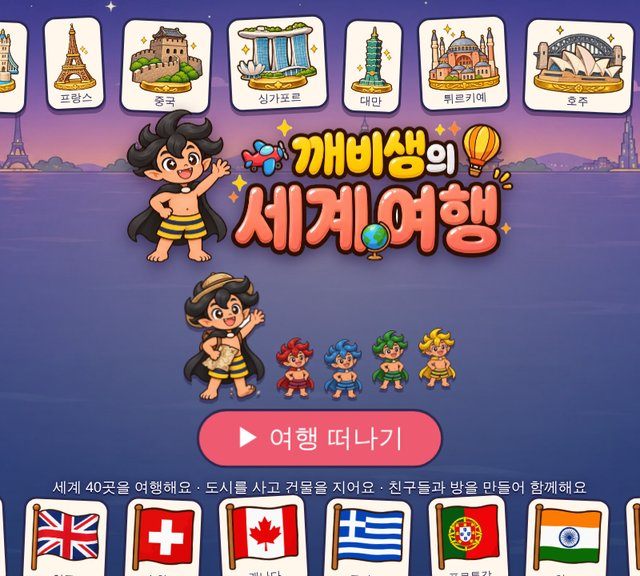
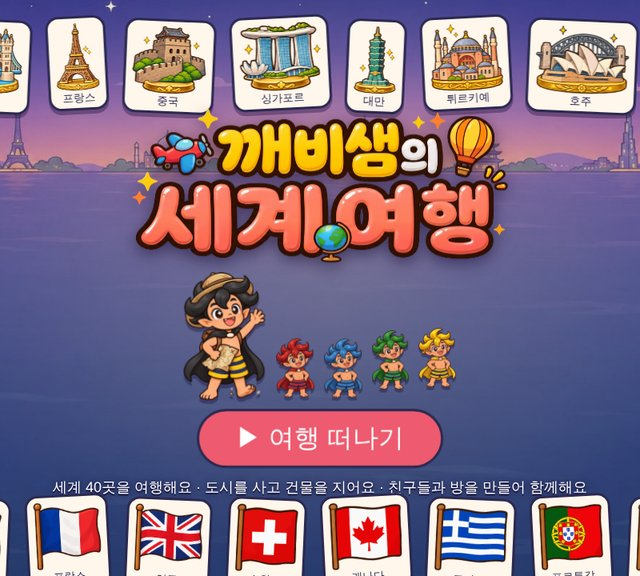
세계 여행: 시작 그림·로고 교체 (직접 누끼) (#97)
* 홈 화면: 깨비샘 캐릭터와 새 사이트 이름(깨비샘과 쉬는 시간)

Claude-Session: https://claude.ai/code/session_01TJDp5XNDx63cZsB8aKiCUZ

* 홈 화면: 새 로고로 교체

Claude-Session: https://claude.ai/code/session_01TJDp5XNDx63cZsB8aKiCUZ

* 맞춤법 게임: 깨비샘 캐릭터와 새 로고 (깨비샘의 한글 맞춤법 대소동)

Claude-Session: https://claude.ai/code/session_01TJDp5XNDx63cZsB8aKiCUZ

* 영어 타자 연습: 깨비샘 캐릭터와 새 로고 (깨비샘의 영어 타자 연습)

Claude-Session: https://claude.ai/code/session_01TJDp5XNDx63cZsB8aKiCUZ

* 국기 맞히기: 깨비샘 캐릭터와 새 로고 (깨비샘의 국기 맞히기)

Claude-Session: https://claude.ai/code/session_01TJDp5XNDx63cZsB8aKiCUZ

* 블록 쌓기: 깨비샘 캐릭터와 새 로고 (깨비샘의 블록 쌓기)

Claude-Session: https://claude.ai/code/session_01TJDp5XNDx63cZsB8aKiCUZ

* 오목 대결: 깨비샘 캐릭터, 스티커, 새 로고 (깨비샘의 오목 대결)

Claude-Session: https://claude.ai/code/session_01TJDp5XNDx63cZsB8aKiCUZ

* 홈 화면: 로고 크게, 휴대폰 카드 썸네일을 원래 비율(10:9)로

Claude-Session: https://claude.ai/code/session_01TJDp5XNDx63cZsB8aKiCUZ

* 홈 화면: 인스타그램 계정 ggaebilog로 변경

Claude-Session: https://claude.ai/code/session_01TJDp5XNDx63cZsB8aKiCUZ

* 블록 쌓기: 제목 위 빼꼼 깨비샘 빼기

Claude-Session: https://claude.ai/code/session_01TJDp5XNDx63cZsB8aKiCUZ

* 알까기: 깨비샘 캐릭터와 새 로고 (깨비샘의 알까기)

Claude-Session: https://claude.ai/code/session_01TJDp5XNDx63cZsB8aKiCUZ

* 블록 쌓기: 블록이 들어간 새 로고

Claude-Session: https://claude.ai/code/session_01TJDp5XNDx63cZsB8aKiCUZ

* 맞춤법 게임: 새 로고로 교체

Claude-Session: https://claude.ai/code/session_01TJDp5XNDx63cZsB8aKiCUZ

* Use new 깨비샘 face (yellow circle) for site icons and face-64
[…]

diff --git a/worldtour/index.html b/worldtour/index.html
@@ -357,7 +357,7 @@
   <div class="tl-main">
     <img class="tl-balloon b1" src="img/corner-balloon.png" alt="" onerror="this.remove()">
     <img class="tl-balloon b2" src="img/corner-balloon.png" alt="" onerror="this.remove()">
-    <img id="tlLogo" src="img/logo.png?v=2" alt="깨비샘의 세계 여행" onerror="this.outerHTML='<div class=&quot;tl-logo-txt&quot;><small>깨비샘의</small>세계 여행</div>'">
+    <img id="tlLogo" src="img/logo.png?v=5" alt="깨비샘의 세계 여행" onerror="this.outerHTML='<div class=&quot;tl-logo-txt&quot;><small>깨비샘의</small>세계 여행</div>'">
     <div class="tl-cast"><img class="gg" src="img/ggobi-travel.png" alt="" onerror="this.src='../img/ggobi-wave.png'"><img class="pc" src="img/piece-red.png" alt="" onerror="this.remove()"><img class="pc" src="img/piece-blue.png" alt="" onerror="this.remove()"><img class="pc" src="img/piece-green.png" alt="" onerror="this.remove()"><img class="pc" src="img/piece-yellow.png" alt="" onerror="this.remove()"></div>
     <button class="game-btn btn-primary" id="tlGo" type="button">▶ 여행 떠나기</button>
     <p class="tl-tip"><span>세계 40곳을 여행해요 ·</span> <span>도시를 사고 건물을 지어요 ·</span> <span>친구들과 방을 만들어 함께해요</span></p>
@@ -562,7 +562,7 @@ const IMG = {};
 const IMG_NAMES = ['logo', 'ggobi-travel', 'ggobi-happy', 'ggobi-sad', 'ggobi-win', 'card-back', 'bld-tent', 'bld-house', 'bld-hotel', 'bld-landmark',
   'piece-red', 'piece-blue', 'piece-green', 'piece-yellow', 'corner-start', 'corner-island', 'corner-fund', 'corner-balloon', 'tile-card', 'tile-give']
   .concat(TILES.filter(t => t.type === 'mark').map(t => 'city-' + t.key)).concat(TILES.filter(t => t.type === 'city').map(t => 'flag-' + t.key)).concat(TILES.filter(t => t.type === 'city').map(t => 'lm-' + t.key)).concat(CARDS.map((c, k) => 'card-' + String(k + 1).padStart(2, '0')));
-const IMG_V = 4;
+const IMG_V = 5;
 IMG_NAMES.forEach(n => { const im = new Image(); im.onload = () => { IMG[n] = 'img/' + n + '.png?v=' + IMG_V; imgReady(); }; im.src = 'img/' + n + '.png?v=' + IMG_V; });
 [['bg.jpg', () => document.body.classList.add('hasbg')], ['board-center.jpg', () => $('center').classList.add('art')]].forEach(([f, cb]) => { const im = new Image(); im.onload = cb; im.src = 'img/' + f; });
 let imgTimer = 0;

diff --git a/index.html b/index.html
@@ -199,7 +199,7 @@ body.adm-edit .adm-num{display:flex}
     </a>
     <a class="game" href="worldtour/">
       <span class="adm-num"></span>
-      <img src="worldtour/thumb.jpg?v=3" alt="깨비샘의 세계 여행 게임 화면">
+      <img src="worldtour/thumb.jpg?v=4" alt="깨비샘의 세계 여행 게임 화면">
       <div class="title"><b>깨비샘의 세계 여행</b></div>
       <p>주사위를 굴려 세계 도시를 사고 건물을 지어요. 친구나 깨비샘 AI와 함께!</p>
     </a>
